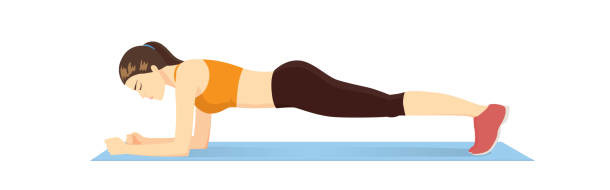
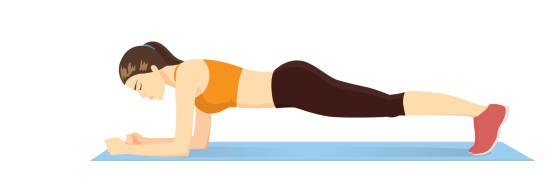
updated layout

Changed region(s): [[0.1526, 0.2105, 0.9767, 0.8684]]

diff --git a/html/index.html(Mainpage)/Exercises/upperBodyExercises/upperBodyExercises.html b/html/index.html(Mainpage)/Exercises/upperBodyExercises/upperBodyExercises.html
@@ -34,154 +34,208 @@
             <article>
                 <section>
                     <div class="alert alert-light" role="alert"> 
-                        <h4 class="alert-heading">Pushups</h4>
-                        <p>
-                            <ol>
-                                <li>Put your feet close together and place your hands slightly wider than your shoulders. The fingers point forward. => The Body should form a straight line.</li>
-                                <li>Bend your arms down so far that your chest almost touches the floor.</li>
-                                <li>Hold briefly.</li>
-                                <li>Push back in the starting postion and repeat it.</li>
-                            </ol>
-                        </p>
-                        <hr> 
-                        <p class="mb-0">If you are a beginner, you can start on the knees.</p>
-                        <img src="pushup.jpg" alt="Women doing pushups"  class="picture">
+                        <div class="grid-container">
+                            <div>
+                                <h3 class="alert-heading">Pushups</h3>
+                                <p>
+                                    <ol>
+                                        <li>Put your feet close together and place your hands slightly wider than your shoulders. The fingers point forward. => The Body should form a straight line.</li>
+                                        <li>Bend your arms down so far that your chest almost touches the floor.</li>
+                                        <li>Hold briefly.</li>
+                                        <li>Push back in the starting postion and repeat it.</li>
+                                    </ol>
+                                </p>
+                                <hr>
+                                <p class="mb-0">If you are a beginner, you can start on the knees.</p>
+                            </div>
+                            <div>
+                                <img src="pushup.jpg" alt="Women doing pushups">
+                            </div> 
+                        </div>                       
                     </div>
                 </section>
                 <section>
                     <div class="alert alert-light" role="alert"> 
-                        <h4 class="alert-heading">Plank</h4>
-                        <p>
-                            <ol>
-                                <li>Place your hands on the floor, directly under your shoulders, and legs straight behind you. Make sure, that they are hip width apart.</li>
-                                <li>Keep your body straight from head to toe and engage your abs. Don't hike your hips!</li>
-                                <li>Hold as long as possible. Repeat it!</li>
-                            </ol>
-                        </p>
-                        <hr> 
-                        <p class="mb-0">Make sure that you are holding it each time a little bit longer.</p>
-                        <img src="plank.jpg" alt="Women doing planks"  class="picture">
+                        <div class="grid-container">
+                            <div>
+                                <img src="plank.jpg" alt="Women doing planks">
+                            </div> 
+                            <div>
+                                <h3 class="alert-heading">Plank</h3>
+                                <p>
+                                    <ol>
+                                        <li>Place your hands on the floor, directly under your shoulders, and legs straight behind you. Make sure, that they are hip width apart.</li>
+                                        <li>Keep your body straight from head to toe and engage your abs. Don't hike your hips!</li>
+                                        <li>Hold as long as possible. Repeat it!</li>
+                                    </ol>
+                                </p>
+                                <hr> 
+                                <p class="mb-0">Make sure that you are holding it each time a little bit longer.</p>
+                            </div>
+                        </div>
                     </div>
                 </section>
                 <section>
                     <div class="alert alert-light" role="alert"> 
-                        <h4 class="alert-heading">Plank Pushups</h4>
-                        <p>
-                            <ol>
-                                <li>Begin in the plank position (description above) with your weigth restin on your forearms. Make sure your body is in a straight line!</li>
-                                <li>Thight your abs and don't let your hips shift.</li>
-                                <li>Push up to your hands. Each hand alone.</li>
-                                <li>Raise down to the starting position.</li>
-                                <li>Repeat this for around 20 times.</li>
-                            </ol>
-                        </p>
-                        <hr> 
-                        <p class="mb-0">If you are a beginner, you can start on your knees. It will be easier.</p>
-                        <img src="plankPushup1.jpg" alt="Women doing plank pushups"  class="picture">
-                        <img src="plankPushup2.jpg" alt="Women doing plank pushups"  class="picture">
+                        <div class="grid-container">
+                            <div>
+                                <h3 class="alert-heading">Plank Pushups</h3>
+                                <p>
+                                    <ol>
+                                        <li>Begin in the plank position (description above) with your weigth restin on your forearms. Make sure your body is in a straight line!</li>
+                                        <li>Thight your abs and don't let your hips shift.</li>
+                                        <li>Push up to your hands. Each hand alone.</li>
+                                        <li>Raise down to the starting position.</li>
+                                        <li>Repeat this for around 20 times.</li>
+                                    </ol>
+                                </p>
+                                <hr>
+                                <p class="mb-0">If you are a beginner, you can start on the knees.</p>
+                            </div>
+                            <div>
+                                <img src="plankPushup1.jpg" alt="Women doing plank pushups">
+                                <img src="plankPushup2.jpg" alt="Women doing plank pushups">
+                            </div> 
+                        </div>  
                     </div>
                 </section>
                 <section>
                     <div class="alert alert-light" role="alert"> 
-                        <h4 class="alert-heading">Bent-over row</h4>
-                        <p>
-                            <ol>
-                                <li>Stand tall with a core and flat back at the beginning. Hold a pair of weigths at your side. Bend your knees slightly as you push your hips back. Your upper body should almost be parallel with the floor. Keep your chest and head up!</li>
-                                <li>Hold this position for a short time while squeezing your shoulder blades.</li>
-                                <li>Row the weigths slowly up. Keep your elbows colse to your sides</li>
-                                <li>Pause at the top of the movement and squeeze your lats.</li>
-                                <li>Lower the weights back to the lowest point, slow and controlled. Keep your shoulder blades drawn down and back.</li>
-                                <li>Repeat this for around 20 times.</li>
-                            </ol>
-                        </p>
-                        <hr> 
-                        <p class="mb-0">If you are a beginner, you can start on your knees. It will be easier.</p>
-                        <img src="dumbellBentOverRow.jpg" alt="Women doing bent-over rows"  class="picture">
+                        <div class="grid-container">
+                            <div>
+                                <img src="dumbellBentOverRow.jpg" alt="Women doing bent-over rows">
+                            </div> 
+                            <div>
+                                <h3 class="alert-heading">Bent-over row</h3>
+                                <p>
+                                    <ol>
+                                        <li>Stand tall with a core and flat back at the beginning. Hold a pair of weigths at your side. Bend your knees slightly as you push your hips back. Your upper body should almost be parallel with the floor. Keep your chest and head up!</li>
+                                        <li>Hold this position for a short time while squeezing your shoulder blades.</li>
+                                        <li>Row the weigths slowly up. Keep your elbows colse to your sides</li>
+                                        <li>Pause at the top of the movement and squeeze your lats.</li>
+                                        <li>Lower the weights back to the lowest point, slow and controlled. Keep your shoulder blades drawn down and back.</li>
+                                        <li>Repeat this for around 20 times.</li>
+                                    </ol>
+                                </p>
+                                <hr> 
+                                <p class="mb-0">If you are a beginner, you can start on your knees. It will be easier.</p>
+                            </div>
+                        </div>
                     </div>
                 </section>
                 <section>
                     <div class="alert alert-light" role="alert"> 
-                        <h4 class="alert-heading">Dumbbell Rear-Delt Fly</h4>
-                        <p>
-                            <ol>
-                                <li>Start with standing with your shoulder width apart. Bend your upper body forward until your back is almost parallel to the floor (see picture). Hold in your hand some weights. Keep ypur chest and head up.</li>
-                                <li>Bring the weight up and out to your side with slightly bented arms. Make sure to squeeze your shoulder blades together at the top of the rep.</li>
-                                <li>Bring your arms slowly back down to the starting position.</li>
-                                <li>Repeat this for around 30 times.</li>
-                            </ol>
-                        </p>
-                        <hr> 
-                        <p class="mb-0">You don't need to use weights, you can also use water bottles</p>
-                        
-                        <img src="dumbellRearDeltFly.jpg" alt="Women doing dumbbell rear-delt fly"  class="picture">
+                        <div class="grid-container">
+                            <div>
+                                <h3 class="alert-heading">Dumbbell Rear-Delt Fly</h3>
+                                <p>
+                                    <ol>
+                                        <li>Start with standing with your shoulder width apart. Bend your upper body forward until your back is almost parallel to the floor (see picture). Hold in your hand some weights. Keep ypur chest and head up.</li>
+                                        <li>Bring the weight up and out to your side with slightly bented arms. Make sure to squeeze your shoulder blades together at the top of the rep.</li>
+                                        <li>Bring your arms slowly back down to the starting position.</li>
+                                        <li>Repeat this for around 30 times.</li>
+                                    </ol>
+                                </p>
+                                <hr>
+                                <p class="mb-0">You don't need to use weights, you can also use water bottles</p>
+                            </div>
+                            <div>
+                                <img src="dumbellRearDeltFly.jpg" alt="Women doing dumbbell rear-delt fly">
+                            </div> 
+                        </div> 
                     </div>
                 </section>
                 <section>
                     <div class="alert alert-light" role="alert"> 
-                        <h4 class="alert-heading">Tricep dips</h4>
-                        <p>
-                            <ol>
-                                <li>Start sitting on the edge of a stable cair. Make sure, that your fingers are pointed at your feet, your legs extendet and your feet are hip width apart. Your heels should touch the ground.</li>
-                                <li>To lift your body, press into your palms. Slide forward just far enough that your beind clears the edge of the chair.</li>
-                                <li>Lower yourselft until your elbows are bent between 45 and 90 degress. You can control the movement throughout the range of motion.</li>
-                                <li>Push back up until your arms are almost straight.</li>
-                                <li>Repeat this for around 20 times.</li>
-                            </ol>
-                        </p>
-                        <hr> 
-                        <p class="mb-0">This exercises is one of the most effective for activating the triceps brachii muscle!</p>
-                        <img src="tricepDips.jpg" alt="Women doing tricep dips"  class="picture">
+                        <div class="grid-container">
+                            <div>
+                                <img src="tricepDips.jpg" alt="Women doing tricep dips">
+                            </div> 
+                            <div>
+                                <h3 class="alert-heading">Tricep dips</h3>
+                                <p>
+                                    <ol>
+                                        <li>Start sitting on the edge of a stable cair. Make sure, that your fingers are pointed at your feet, your legs extendet and your feet are hip width apart. Your heels should touch the ground.</li>
+                                        <li>To lift your body, press into your palms. Slide forward just far enough that your beind clears the edge of the chair.</li>
+                                        <li>Lower yourselft until your elbows are bent between 45 and 90 degress. You can control the movement throughout the range of motion.</li>
+                                        <li>Push back up until your arms are almost straight.</li>
+                                        <li>Repeat this for around 20 times.</li>
+                                    </ol>
+                                </p>
+                                <hr> 
+                                <p class="mb-0">This exercises is one of the most effective for activating the triceps brachii muscle!</p>
+                            </div>
+                        </div>
                     </div>
                 <section>
                     <div class="alert alert-light" role="alert"> 
-                        <h4 class="alert-heading">Inchworm</h4>
-                        <p>
-                            <ol>
-                                <li>Stand with your feet hip width apart.</li>
-                                <li>Bend forward from the hips and place your hands on the floor in front of your feet.</li>
-                                <li>Walk your hands forward, one at a time, until your body begins to form a straight line. Your heels can lift off the floor.</li>
-                                <li>When you are in an extended plank position, do one pushup and start walking back in to the starting position.</li>
-                                <li>Repeat this for around 10 times.</li>
-                            </ol>
-                        </p>
-                        <hr> 
-                        <p class="mb-0">If this is to much for yourself, remove the pushups and just do the walking part.</p>
-                        <p class="mb-0">You can challenge yourself, with increasing the numbers of pushups.</p>
-                        <img src="inchworm.jpg" alt="Women doing inchworms"  class="picture">
-                    </div>
-                </section>
-                <section>
-                    <div class="alert alert-light" role="alert"> 
-                        <h4 class="alert-heading">Dumbell Front Raise</h4>
-                        <p>
-                            <ol>
-                                <li>Hold a weigth or dumbells in each hand.</li>
-                                <li>Position them in front of your upper legs with your elbows straight or slightly bent.</li>
-                                <li>Raise ona arm forward and upward until the upper arms are above horizontal.</li>
-                                <li>Lower down to the starting position.</li>
-                                <li>Do this for 10 to 15 times on each arm and make 3 sets.</li>
-                            </ol>
-                        </p>
-                        <hr> 
-                        <p class="mb-0">This exercise is perfect for your anterior deltoid muscles!<br><br>Just like this picture, but to the front!</p>
-                        <img src="dumbellFrontRaise.jpg" alt="Women doing dumbell front raises"  class="picture">
+                        <div class="grid-container">
+                            <div>
+                                <h3 class="alert-heading">Inchworm</h3>
+                                <p>
+                                    <ol>
+                                        <li>Stand with your feet hip width apart.</li>
+                                        <li>Bend forward from the hips and place your hands on the floor in front of your feet.</li>
+                                        <li>Walk your hands forward, one at a time, until your body begins to form a straight line. Your heels can lift off the floor.</li>
+                                        <li>When you are in an extended plank position, do one pushup and start walking back in to the starting position.</li>
+                                        <li>Repeat this for around 10 times.</li>
+                                    </ol>
+                                </p>
+                                <hr>
+                                <p class="mb-0">If this is to much for yourself, remove the pushups and just do the walking part.</p>
+                                <p class="mb-0">You can challenge yourself, with increasing the numbers of pushups.</p>
+                            </div>
+                            <div>
+                                <img src="inchworm.jpg" alt="Women doing inchworms">
+                            </div> 
+                        </div> 
                     </div>
                 </section>
                 <section>
                     <div class="alert alert-light" role="alert"> 
-                        <h4 class="alert-heading">Dumbell Shoulder Press</h4>
-                        <p>
-                            <ol>
-                                <li>Start holding a weight in each hand by your shoulders.</li>
-                                <li>Make sure your palms are facing forwards and your elbows out to the side and bent at a 90° angle.</li>
-                                <li>Extend through your elbows to press the weights above your head. Don't lean back while doing it!</li>
-                                <li>slowly return to the starting position.</li>
-                                <li>Repeat it for 15 to 20 times and make 3 sets.</li>
-                            </ol>
-                        </p>
-                        <hr> 
-                        <p class="mb-0">Don't select a too heavy weight for the first couples of reps. If your form gets sloppy as a result of the load, you risk injury to your shoulders!</p>
-                        <img src="dumbellShoulderPress.jpg" alt="Women doing dumbell shoulder press"  class="picture">
+                        <div class="grid-container">
+                            <div>
+                                <img src="dumbellFrontRaise.jpg" alt="Women doing dumbell front raises">
+                                <p style="text-align: center;">Just like this picture, but to the front!</p>
+                            </div> 
+                            <div>
+                                <h3 class="alert-heading">Dumbell Front Raise</h3>
+                                <p>
+                                    <ol>
+                                        <li>Hold a weigth or dumbells in each hand.</li>
+                                        <li>Position them in front of your upper legs with your elbows straight or slightly bent.</li>
+                                        <li>Raise ona arm forward and upward until the upper arms are above horizontal.</li>
+                                        <li>Lower down to the starting position.</li>
+                                        <li>Do this for 10 to 15 times on each arm and make 3 sets.</li>
+                                    </ol>
+                                </p>
+                                <hr> 
+                                <p class="mb-0">This exercise is perfect for your anterior deltoid muscles.</p>
+                            </div>
+                        </div>
+                    </div>
+                </section>
+                <section>
+                    <div class="alert alert-light" role="alert"> 
+                        <div class="grid-container">
+                            <div>
+                                <h3 class="alert-heading">Dumbell Shoulder Press</h3>
+                                <p>
+                                    <ol>
+                                        <li>Start holding a weight in each hand by your shoulders.</li>
+                                        <li>Make sure your palms are facing forwards and your elbows out to the side and bent at a 90° angle.</li>
+                                        <li>Extend through your elbows to press the weights above your head. Don't lean back while doing it!</li>
+                                        <li>slowly return to the starting position.</li>
+                                        <li>Repeat it for 15 to 20 times and make 3 sets.</li>
+                                    </ol>
+                                </p>
+                                <hr>
+                                <p class="mb-0">Don't select a too heavy weight for the first couples of reps. If your form gets sloppy as a result of the load, you risk injury to your shoulders!</p>
+                            </div>
+                            <div>
+                                <img src="dumbellShoulderPress.jpg" alt="Women doing dumbell shoulder press">
+                            </div> 
+                        </div> 
                     </div>
                 </section>
             </article>

diff --git a/html/index.html(Mainpage)/Exercises/upperBodyExercises/style.css b/html/index.html(Mainpage)/Exercises/upperBodyExercises/style.css
@@ -1,10 +1,3 @@
-.picture{
-    width: 45%;
-    height: 35%;
-}
-
-
-
 .background {
     background-color: #d6f5d6;
 }
@@ -23,5 +16,14 @@
   }
   .float{
       margin-left: 75%;
+  }
+
+  .grid-container 
+  {
+       display: grid;
+       grid-template-columns: auto auto;
+       grid-template-rows: auto auto;
+       grid-gap: 10px;
+       padding: 10px;           
   }
   
